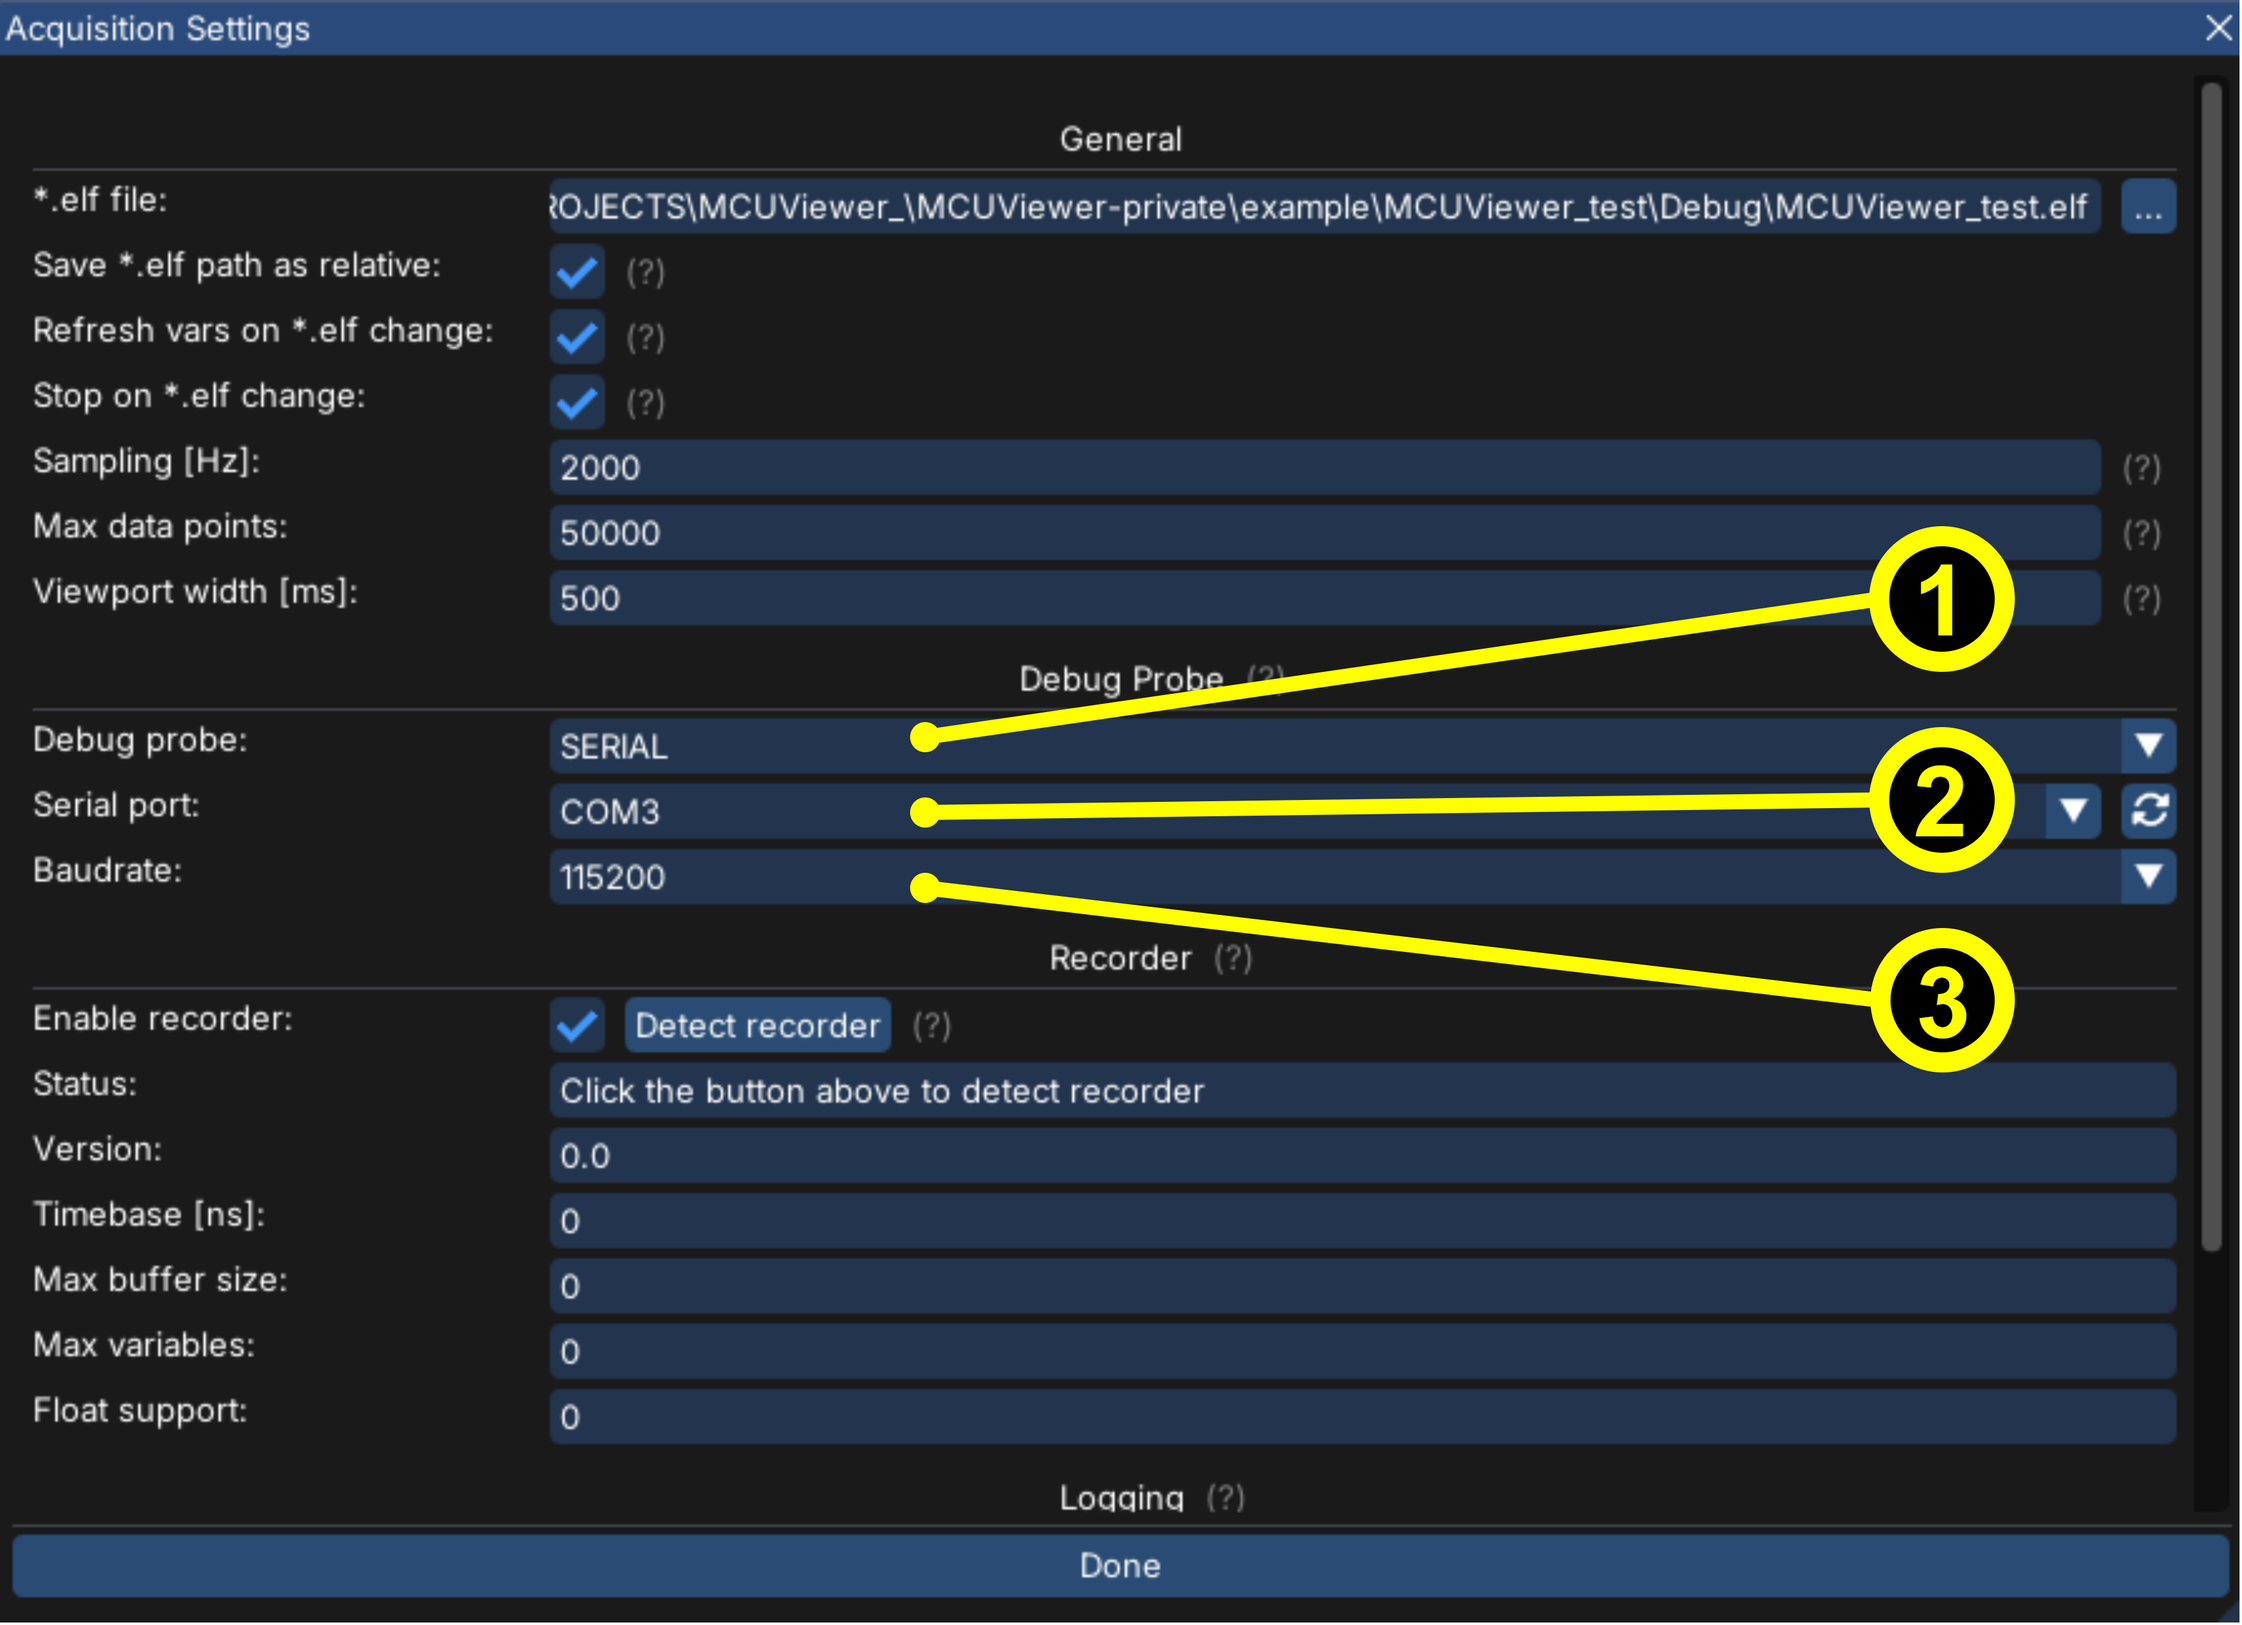
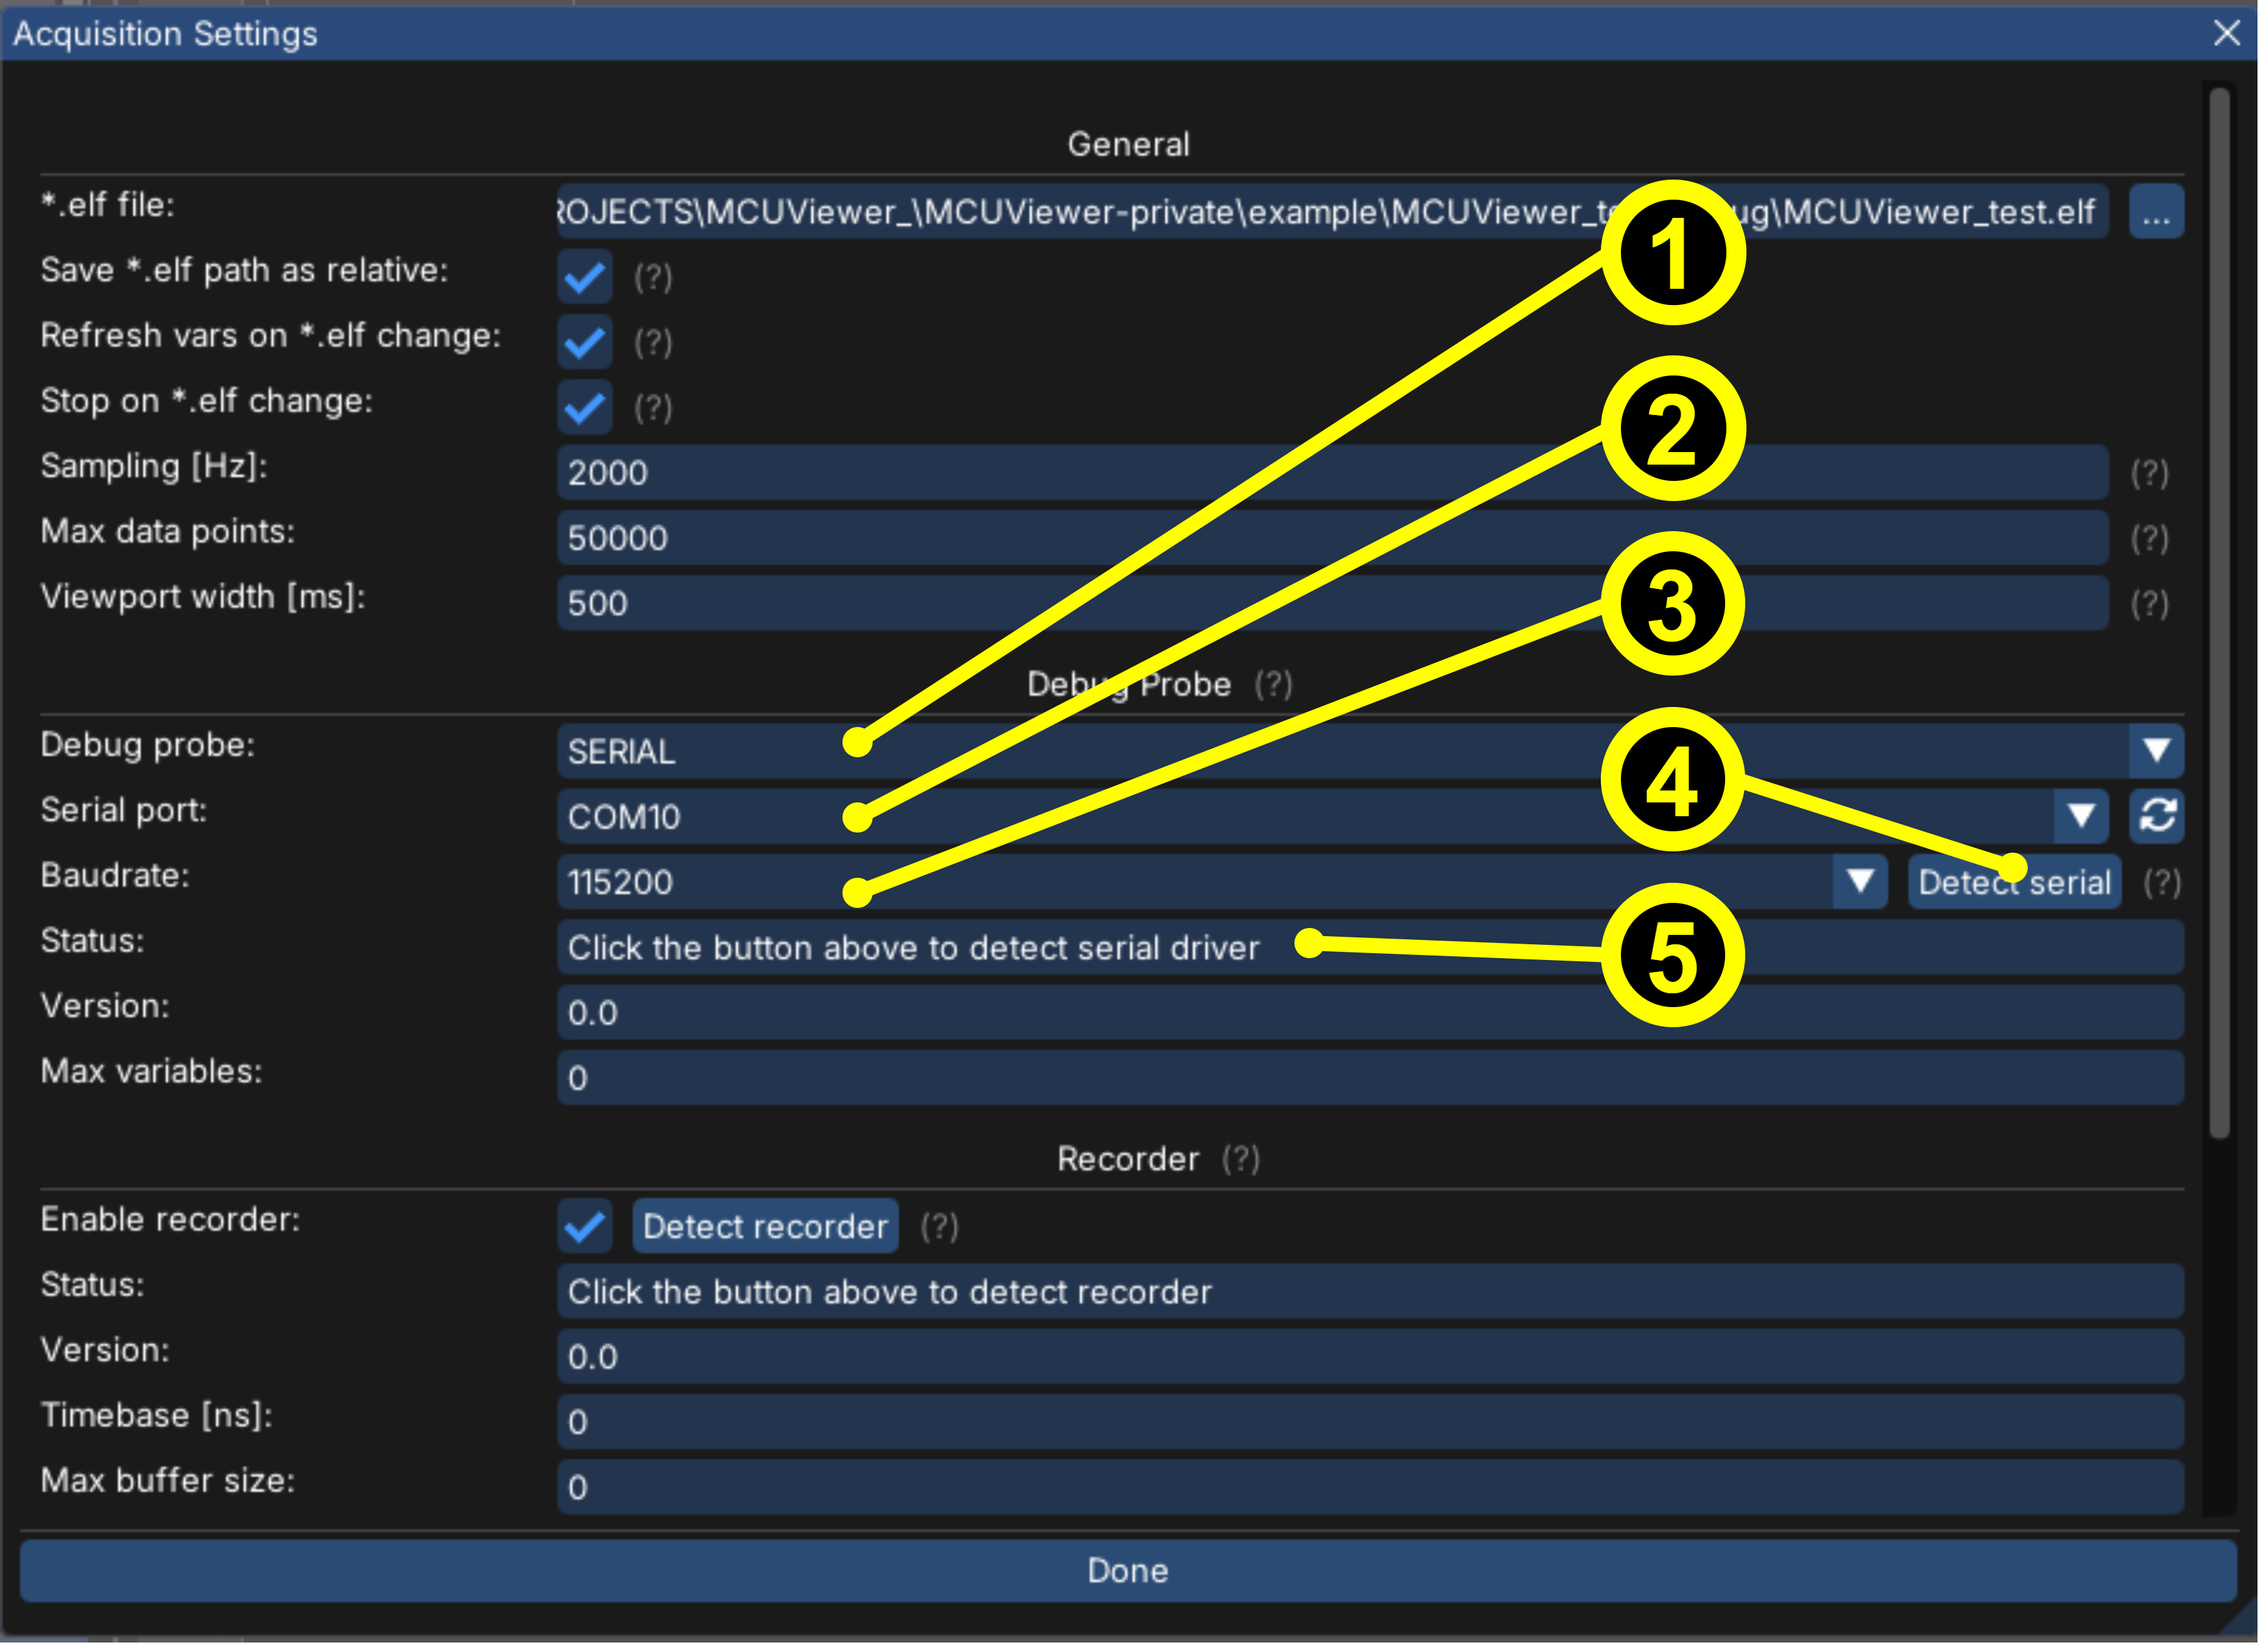
wip: working on serial driver docs

diff --git a/documentation/SerialDriver/SerialDriver.md b/documentation/SerialDriver/SerialDriver.md
@@ -14,6 +14,7 @@ Using serial driver is more intrusive than using debug probe direct memory reado
 4. Implement the data transmission and reception. Example for STM32 HAL could look like this:
 
 ```c
+/* RECEIVE */
 void HAL_UART_RxCpltCallback(UART_HandleTypeDef* huart)
 {
 	if (huart->Instance == USART3)
@@ -24,10 +25,30 @@ void HAL_UART_RxCpltCallback(UART_HandleTypeDef* huart)
 	}
 }
 
+/* SEND */
 void serialDriverSendData(uint8_t* buf, uint16_t size)
 {
     // send data to the serial port
     HAL_UART_Transmit_IT(&huart3, buf, size);       
+}
+```
+
+or C2000: 
+
+```c
+/* RECEIVE */
+__interrupt void INT_mySCIA_RX_ISR(void)
+{
+    char rxChar = SCI_readCharBlockingFIFO(mySCIA_BASE);
+    SCI_clearInterruptStatus(mySCIA_BASE, SCI_INT_RXFF);
+    Interrupt_clearACKGroup(INT_mySCIA_RX_INTERRUPT_ACK_GROUP);
+    serialDriverReceiveByte(rxChar);
+}
+
+/* SEND */
+void serialDriverSendData(uint16_t* buf, uint16_t size)
+{  
+    SCI_writeCharArray(mySCIA_BASE, buf, size);
 }
 ```
 
@@ -38,8 +59,12 @@ After that, open the {ref}`AcquisitionSettings` window, and select the serial dr
 :align: center
 ```
 
-After that the serial driver is configured and ready to be used. 
+Next make sure the target is connected, powered on and click the "Detect serial" button (4). It should detect the serial driver version and max variables from `serialDriverDefines.h` file like in the picture below. Any errors will be listed in the Status text box (5).
 
+```{figure} ./images/SerialDriverDetected.png
+:width: 1000px
+:align: center
+```
 
 ## Serial driver profiling
 
